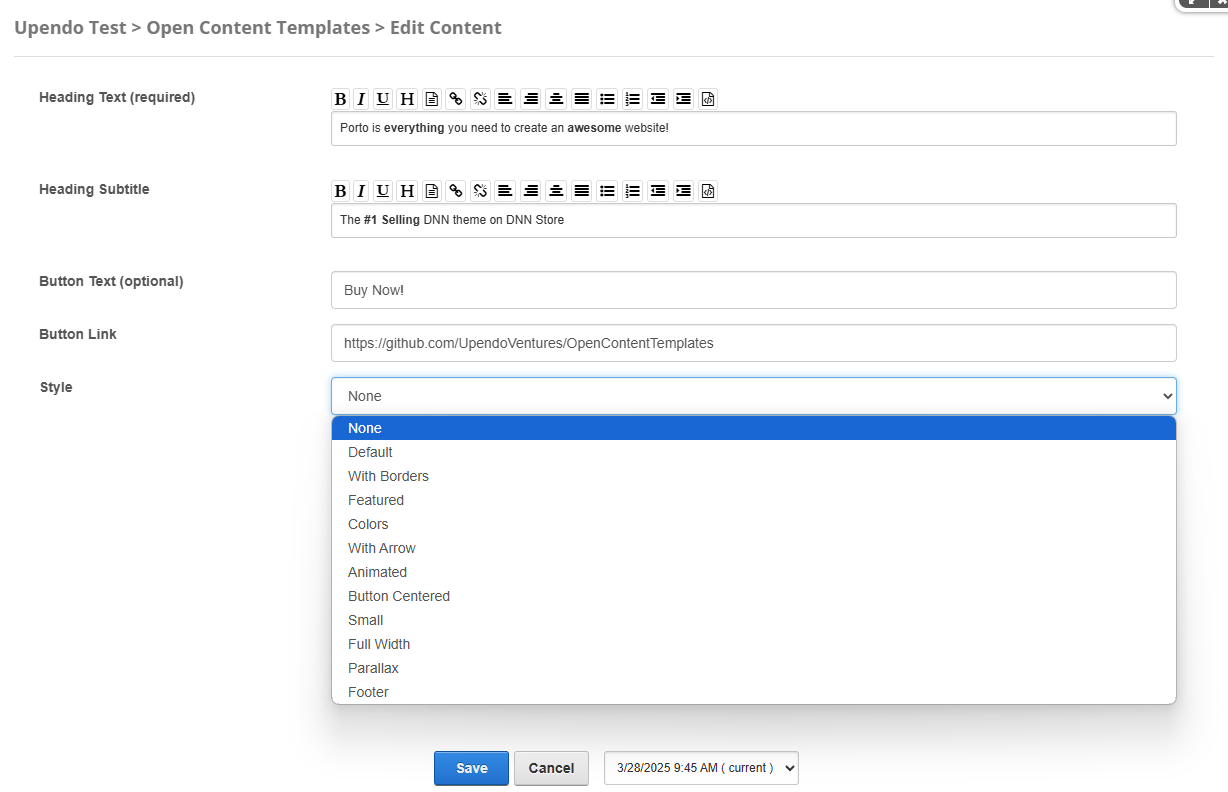
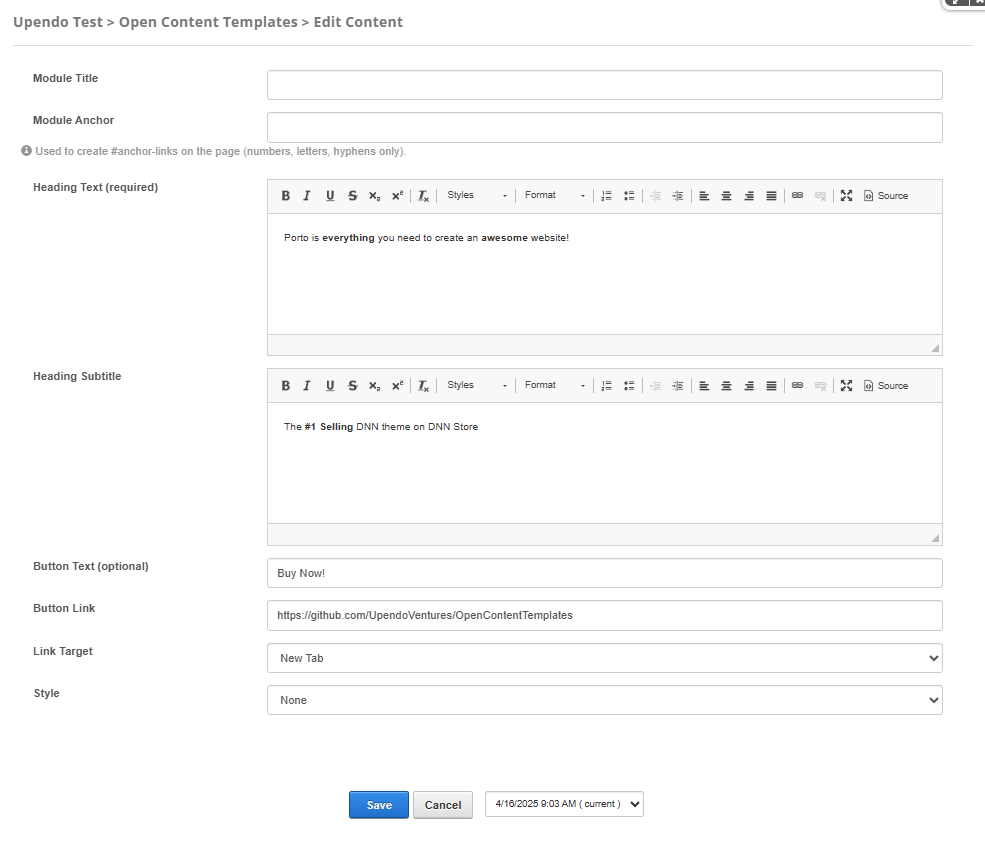
Update Porto-Call-To-Action Doc

diff --git a/Porto-Call-To-Action/Porto-Call-To-Action.html b/Porto-Call-To-Action/Porto-Call-To-Action.html
@@ -230,6 +230,18 @@
             </thead>
             <tbody>
                 <tr>
+                    <td>Module Title</td>
+                    <td>string</td>
+                    <td>Used to define the title of the module. This title is displayed in the DNN administration interface
+                        to help identify the module.</td>
+                </tr>
+                <tr>
+                    <td>Module Anchor</td>
+                    <td>string</td>
+                    <td>Used to create anchor links on the page. This allows users to link directly to the module using a unique
+                        identifier. Only letters, numbers, and hyphens are allowed.</td>
+                </tr>
+                <tr>
                     <td>Heading Text</td>
                     <td>String</td>
                     <td><strong>Required</strong>. The main heading text for the call-to-action section. This is the primary
@@ -317,7 +329,61 @@
                 </td>
                 </tr>
             </tbody>
-        </table>      
+        </table>     
+        
+    <h3 class="Head">Settings</h3>
+    <img src="image/template settings.png" alt="Settings Properties" class="component-image">
+    
+    <h3 class="Head">Settings Properties</h3>
+    <table class="properties-table">
+        <thead>
+            <tr>
+                <th>Setting</th>
+                <th>Type</th>
+                <th>Description</th>
+                <th>Options</th>
+            </tr>
+        </thead>
+        <tbody>
+            <tr>
+                <td>Margin (top)</td>
+                <td>Select</td>
+                <td>Defines the top margin of the component.</td>
+                <td><code>mt-0</code>, <code>mt-1</code>,<code>mt-2</code>, <code>mt-3</code>, <code>mt-4</code>, <code>mt-5</code>,
+                    and <code>mt-auto</code>.
+                </td>
+            </tr>
+            <tr>
+                <td>Margin (bottom)</td>
+                <td>Select</td>
+                <td>Defines the bottom margin of the component.
+                </td>
+                <td><code>mb-0</code>, <code>mb-1</code>,
+                    <code>mb-2</code>, <code>mb-3</code>, <code>mb-4</code>, <code>mb-5</code>, and
+                    <code>mb-auto</code>.
+                </td>
+            </tr>
+            <tr>
+                <td>Padding (top)</td>
+                <td>Select</td>
+                <td>Defines the top padding of the component.</td>
+                <td><code>pt-0</code>, <code>pt-1</code>,
+                    <code>pt-2</code>, <code>pt-3</code>, <code>pt-4</code>, <code>pt-5</code>, and
+                    <code>pt-auto</code>.
+                </td>
+            </tr>
+            <tr>
+                <td>Padding (bottom)</td>
+                <td>Select</td>
+                <td>Defines the bottom padding of the component.</td>
+                <td><code>pb-0</code>, <code>pb-1</code>,
+                    <code>pb-2</code>, <code>pb-3</code>, <code>pb-4</code>, <code>pb-5</code>, and
+                    <code>pb-auto</code>.
+                </td>
+            </tr>
+        </tbody>
+    </table>
+
     <h3 class="Head">Views</h3>
     <p>Below are examples of the different styles available for the <strong>Porto-Call-To-Action</strong> component. Each
         style is customizable and can be adapted to your design needs.</p>

diff --git a/Porto-ExtensionList/Porto-ExtensionList.html b/Porto-ExtensionList/Porto-ExtensionList.html
@@ -225,12 +225,12 @@
             <tbody>
                 <!-- Module Properties -->
                 <tr>
-                    <td rowspan="1">ModuleTitle</td>
+                    <td rowspan="1">Module Title</td>
                     <td>string</td>
                     <td rowspan="1">Used to define the title of the module. This title is displayed in the DNN administration interface to help identify the module.</td>
                 </tr>
                 <tr>
-                    <td>ModuleAnchor</td>
+                    <td>Module Anchor</td>
                     <td>string</td>
                     <td>Used to create anchor links on the page. This allows users to link directly to the module using a unique identifier. Only letters, numbers, and hyphens are allowed.</td>
                 </tr>
